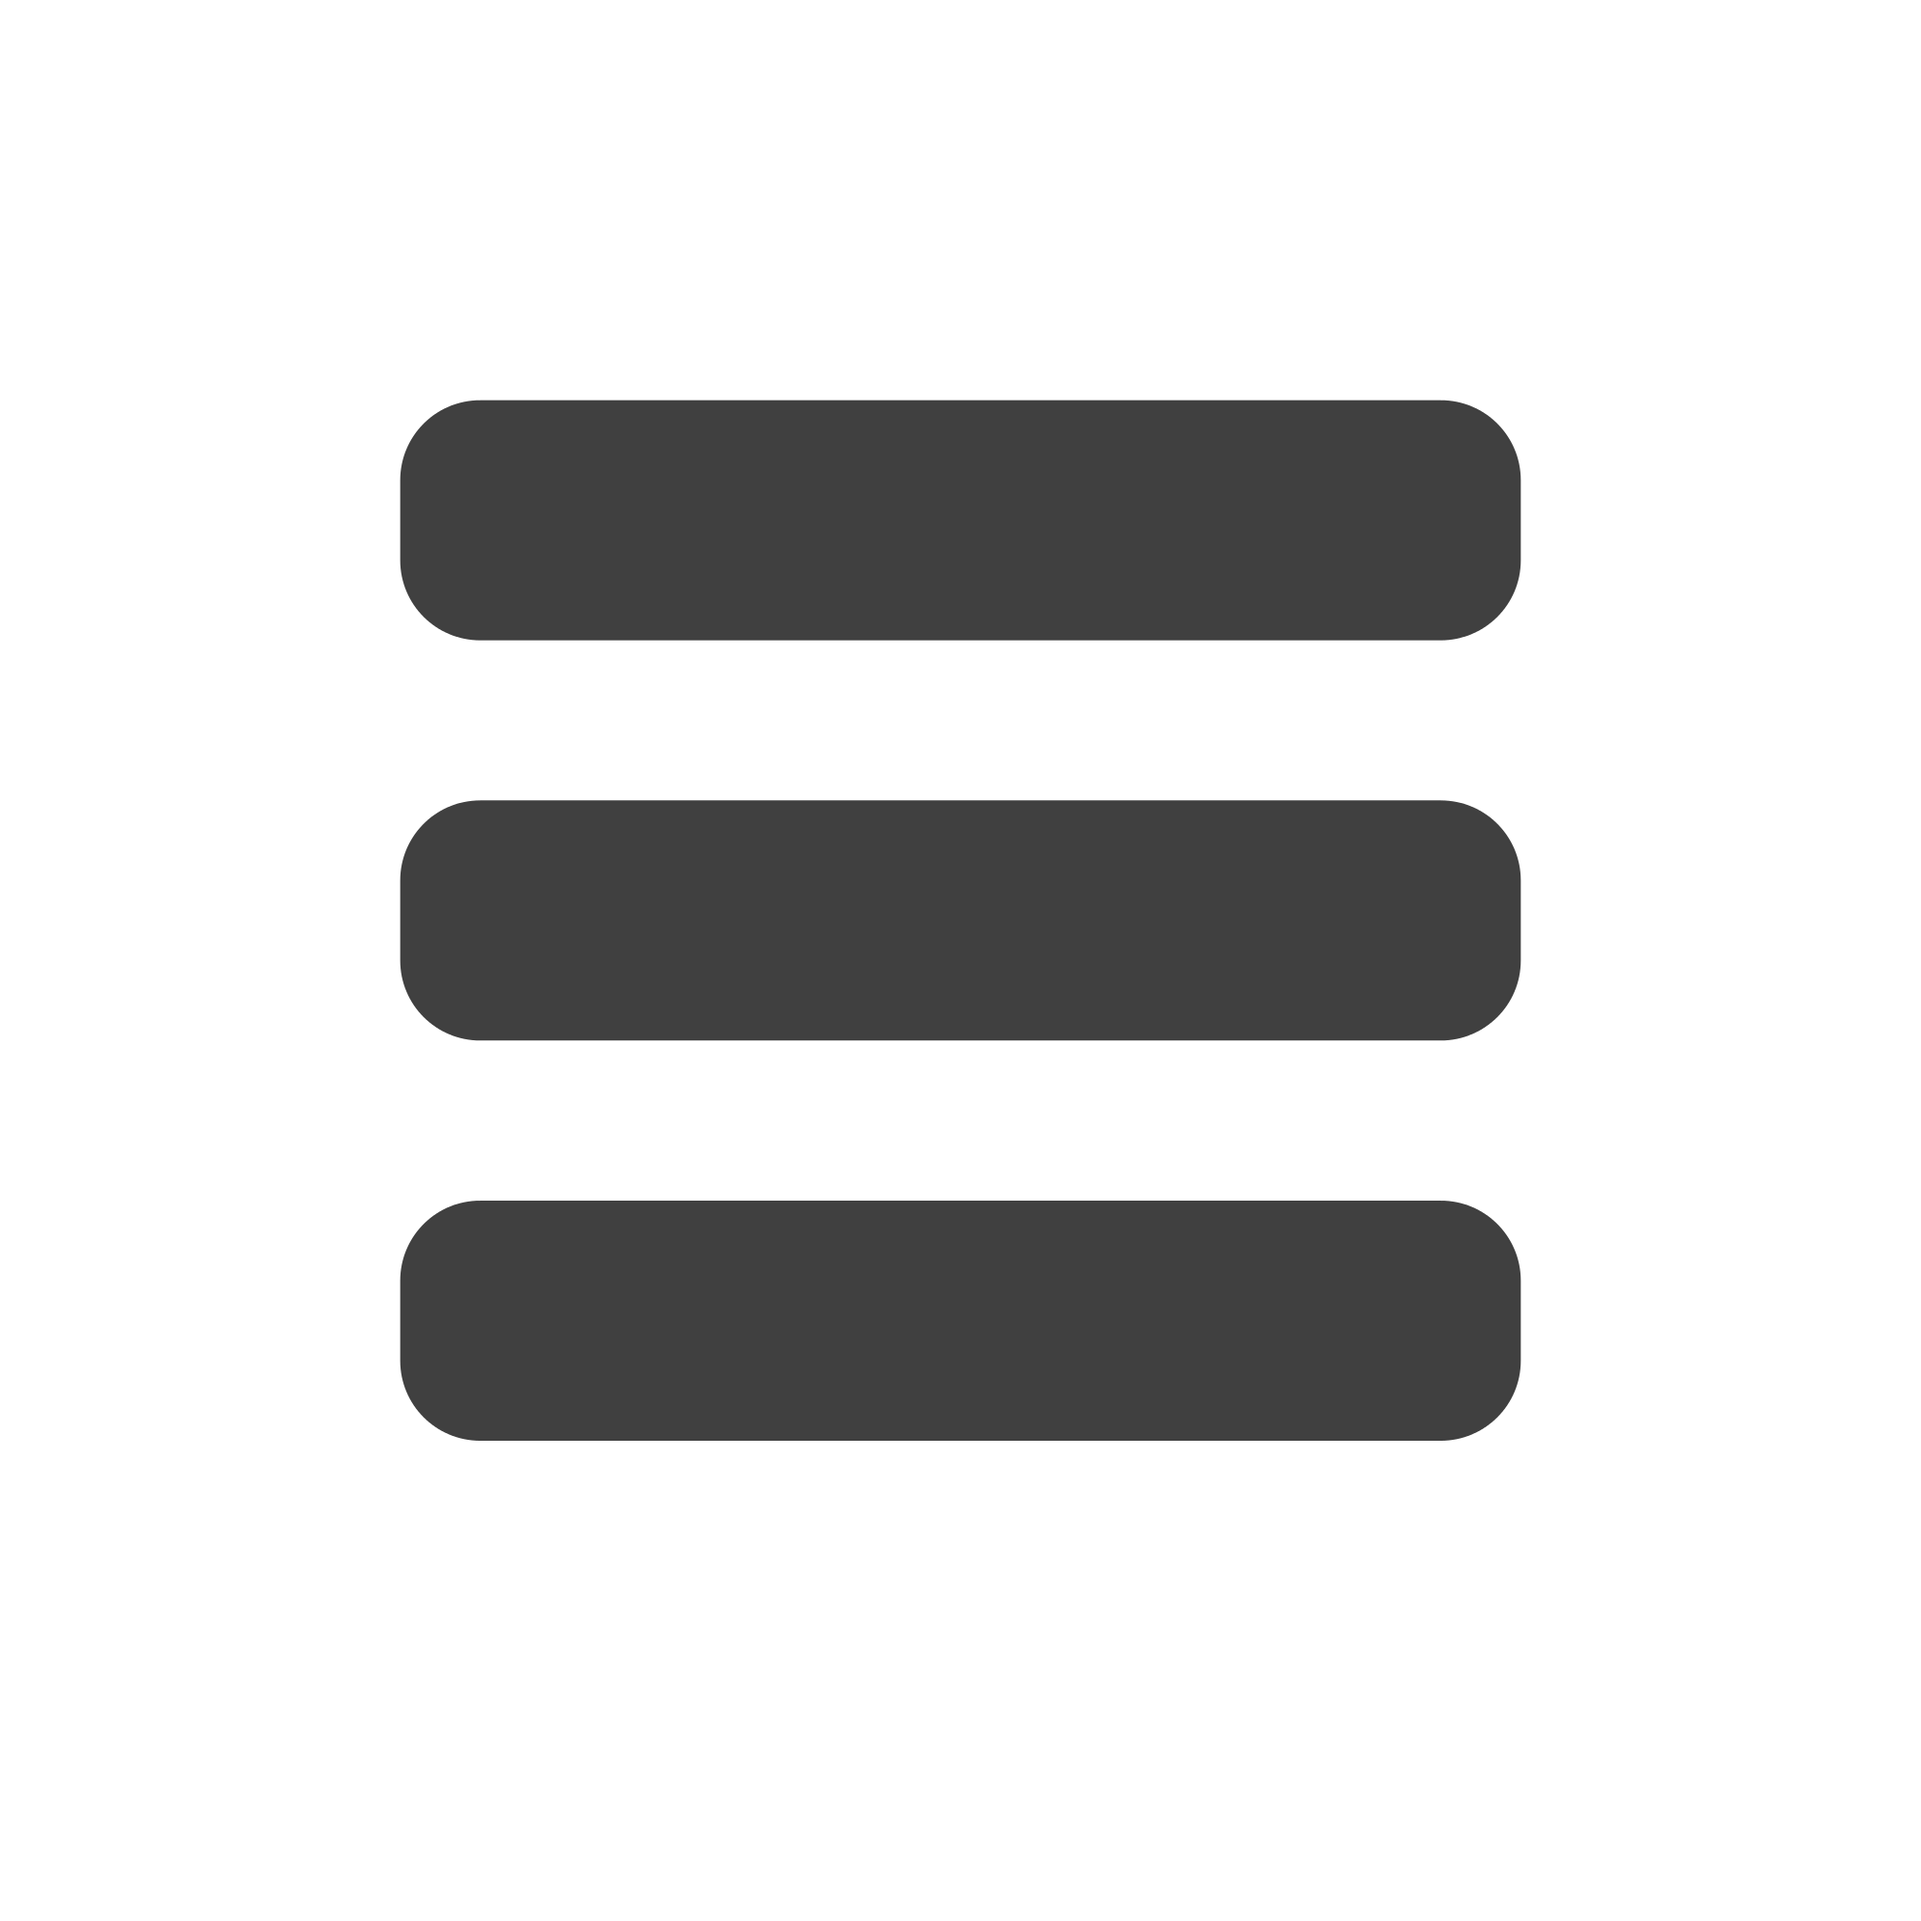
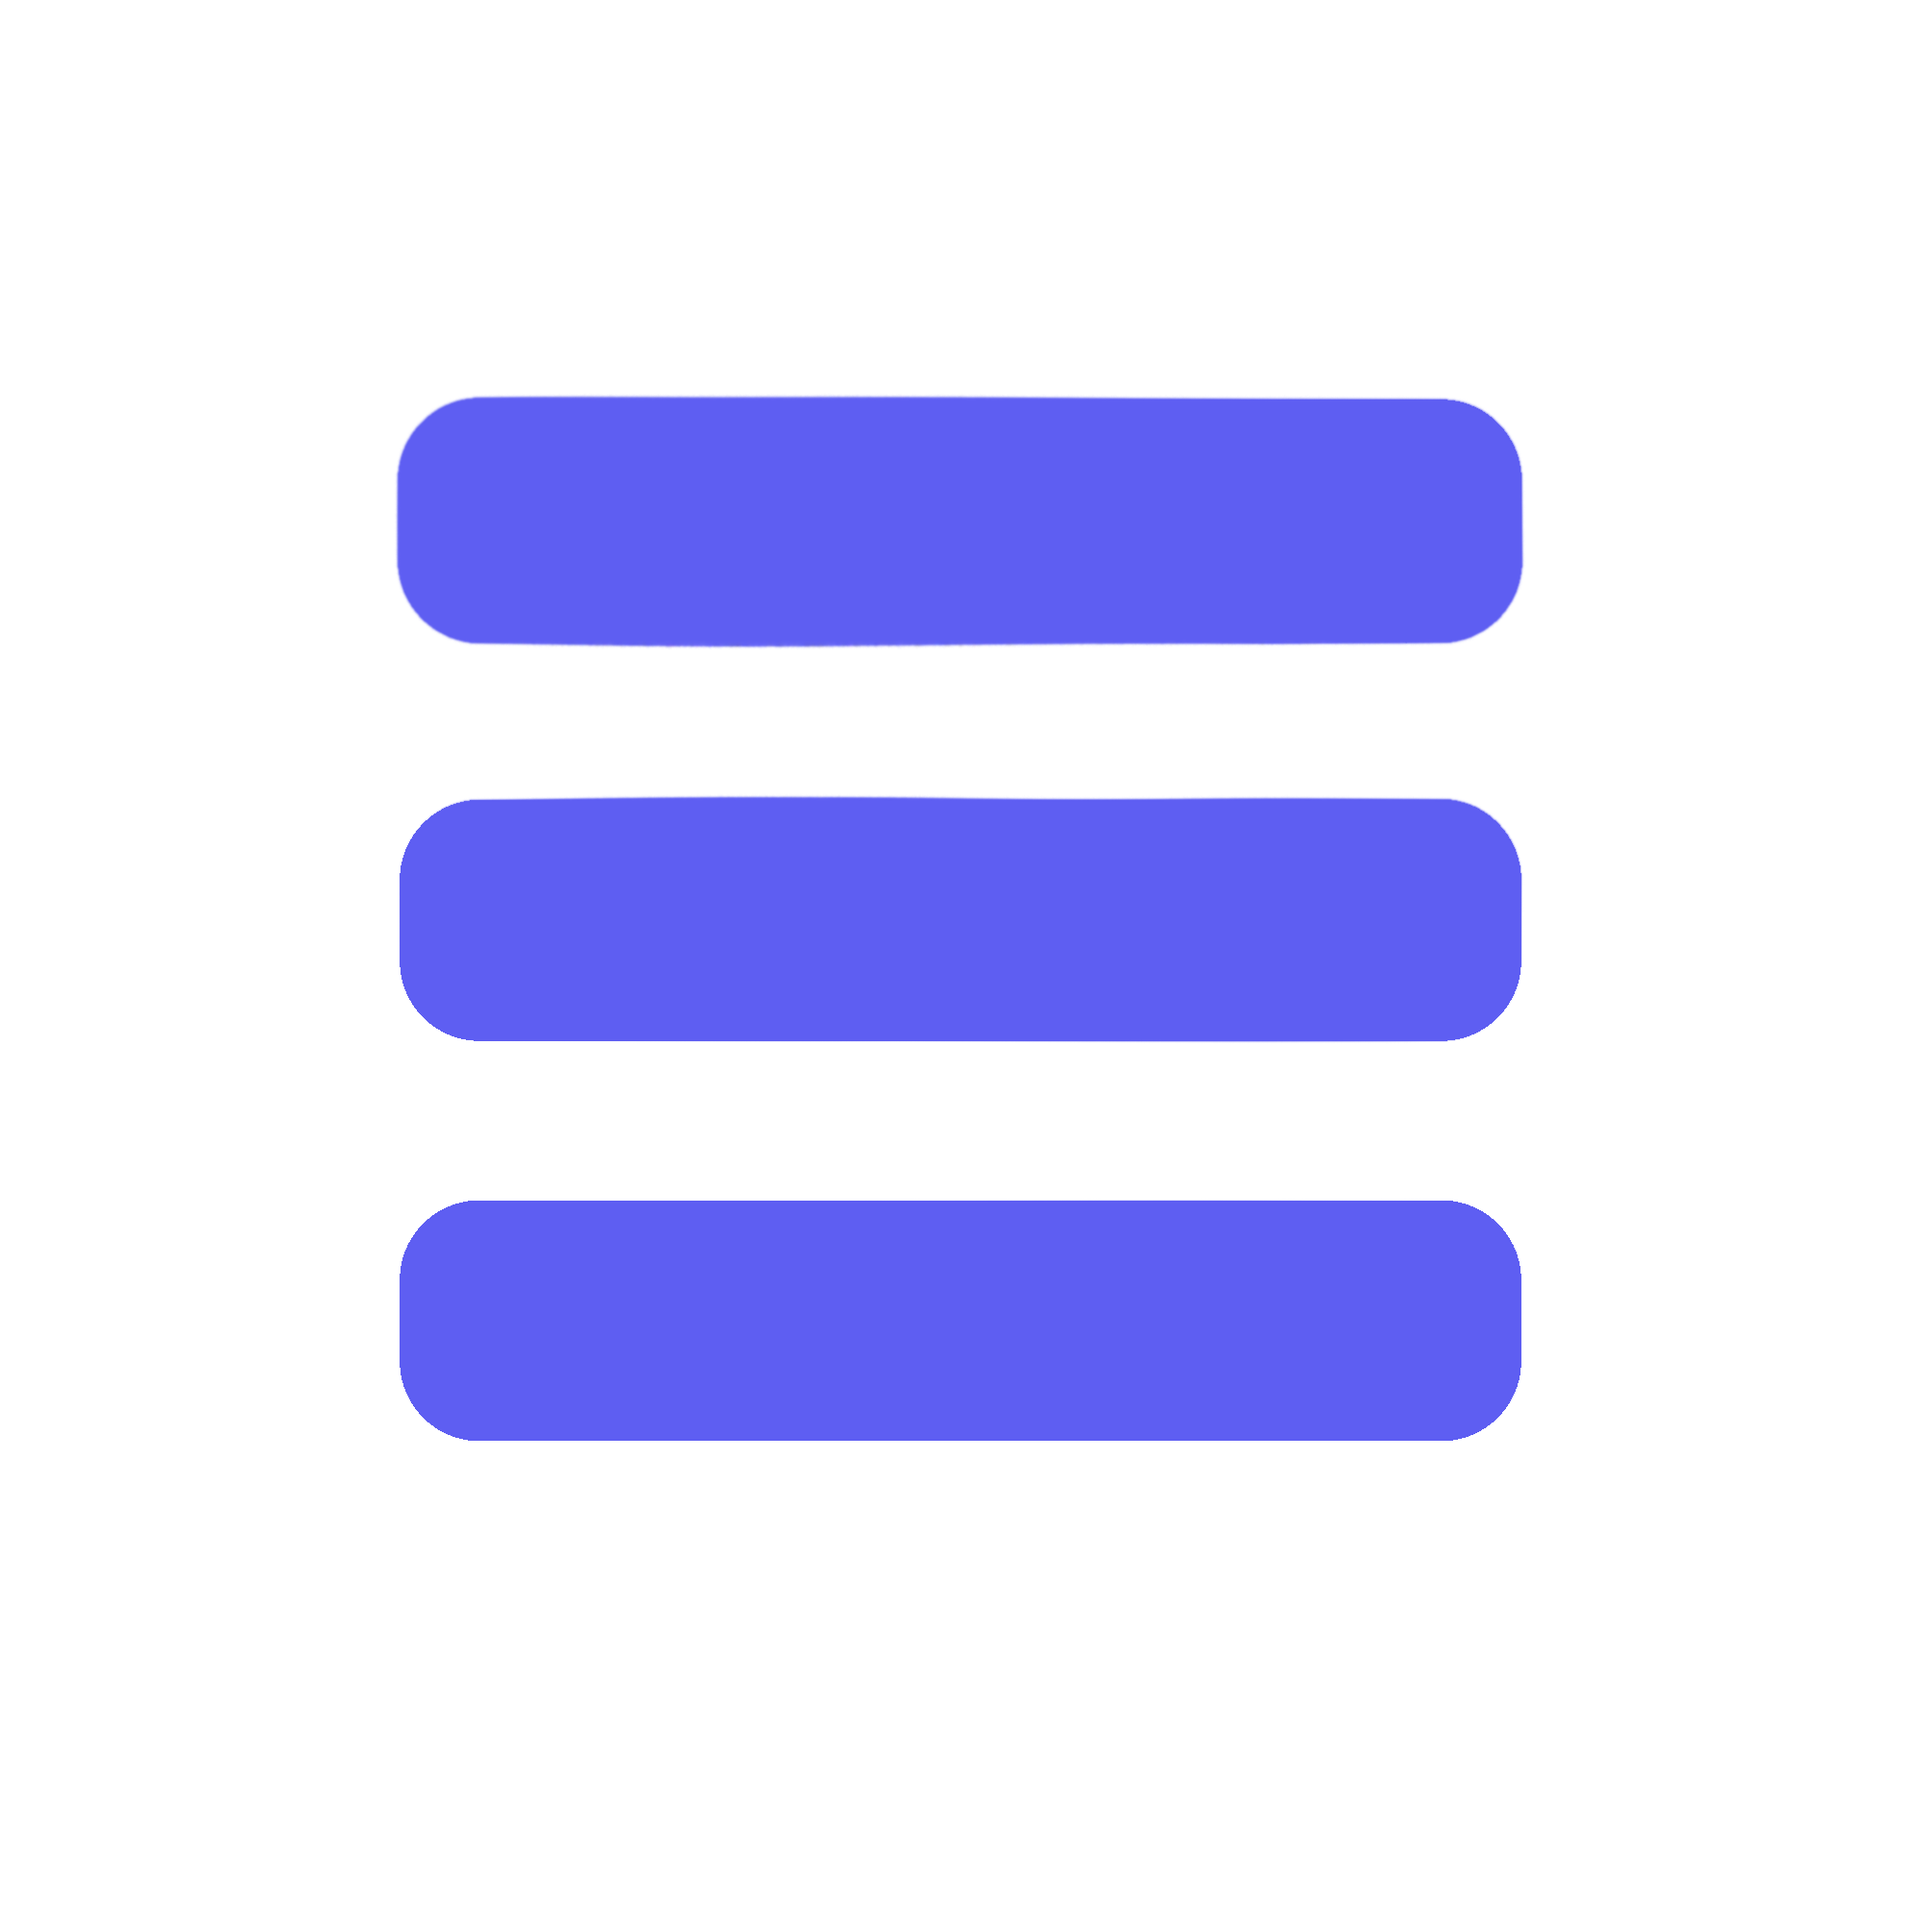
add navigation menu

Changed region(s): [[0.186, 0.186, 0.806, 0.341], [0.186, 0.62, 0.806, 0.775], [0.186, 0.403, 0.806, 0.558]]

diff --git a/shoping/src/main/webapp/assets/css/normalize.css b/shoping/src/main/webapp/assets/css/normalize.css
@@ -1,1 +1,1 @@
-article,aside,details,figcaption,figure,footer,header,hgroup,main,nav,section,summary{display:block;}audio,canvas,video{display:inline-block;}audio:not([controls]){display:none;height:0;}[hidden]{display:none;}html{font-family:sans-serif;-ms-text-size-adjust:100%;-webkit-text-size-adjust:100%;}body{margin:0;}a:focus{outline:thin dotted;}a:active,a:hover{outline:0;}h1{font-size:2em;margin:0.67em 0;}abbr[title]{border-bottom:1px dotted;}b,strong{font-weight:bold;}dfn{font-style:italic;}hr{-moz-box-sizing:content-box;box-sizing:content-box;height:0;}mark{background:#ff0;color:#000;}code,kbd,pre,samp{font-family:monospace,serif;font-size:1em;}pre{white-space:pre-wrap;}q{quotes:"\201C" "\201D" "\2018" "\2019";}small{font-size:80%;}sub,sup{font-size:75%;line-height:0;position:relative;vertical-align:baseline;}sup{top:-0.5em;}sub{bottom:-0.25em;}img{border:0;}svg:not(:root){overflow:hidden;}figure{margin:0;}fieldset{border:1px solid #c0c0c0;margin:0 2px;padding:0.35em 0.625em 0.75em;}legend{border:0;padding:0;}button,input,select,textarea{font-family:inherit;font-size:100%;margin:0;}button,input{line-height:normal;}button,select{text-transform:none;}button,html input[type="button"],input[type="reset"],input[type="submit"]{-webkit-appearance:button;cursor:pointer;}button[disabled],html input[disabled]{cursor:default;}input[type="checkbox"],input[type="radio"]{box-sizing:border-box;padding:0;}input[type="search"]{-webkit-appearance:textfield;-moz-box-sizing:content-box;-webkit-box-sizing:content-box;box-sizing:content-box;}input[type="search"]::-webkit-search-cancel-button,input[type="search"]::-webkit-search-decoration{-webkit-appearance:none;}button::-moz-focus-inner,input::-moz-focus-inner{border:0;padding:0;}textarea{overflow:auto;vertical-align:top;}table{border-collapse:collapse;border-spacing:0;}
+article,aside,details,figcaption,figure,footer,header,hgroup,main,nav,section,summary{display:block;}audio,canvas,video{display:inline-block;}audio:not([controls]){display:none;height:0;}[hidden]{display:none;}html{font-family:sans-serif;-ms-text-size-adjust:100%;-webkit-text-size-adjust:100%;}body{margin:0;}a:focus{outline:thin dotted;}a:active,a:hover{outline:0;}h1{font-size:2em;margin:0.67em 0;}abbr[title]{border-bottom:1px dotted;}b,strong{font-weight:bold;}dfn{font-style:italic;}hr{-moz-box-sizing:content-box;box-sizing:content-box;height:0;}mark{background:#fff;color:#00f;}code,kbd,pre,samp{font-family:monospace,serif;font-size:1em;}pre{white-space:pre-wrap;}q{quotes:"\201C" "\201D" "\2018" "\2019";}small{font-size:80%;}sub,sup{font-size:75%;line-height:0;position:relative;vertical-align:baseline;}sup{top:-0.5em;}sub{bottom:-0.25em;}img{border:0;}svg:not(:root){overflow:hidden;}figure{margin:0;}fieldset{border:1px solid #c0c0c0;margin:0 2px;padding:0.35em 0.625em 0.75em;}legend{border:0;padding:0;}button,input,select,textarea{font-family:inherit;font-size:100%;margin:0;}button,input{line-height:normal;}button,select{text-transform:none;}button,html input[type="button"],input[type="reset"],input[type="submit"]{-webkit-appearance:button;cursor:pointer;}button[disabled],html input[disabled]{cursor:default;}input[type="checkbox"],input[type="radio"]{box-sizing:border-box;padding:0;}input[type="search"]{-webkit-appearance:textfield;-moz-box-sizing:content-box;-webkit-box-sizing:content-box;box-sizing:content-box;}input[type="search"]::-webkit-search-cancel-button,input[type="search"]::-webkit-search-decoration{-webkit-appearance:none;}button::-moz-focus-inner,input::-moz-focus-inner{border:0;padding:0;}textarea{overflow:auto;vertical-align:top;}table{border-collapse:collapse;border-spacing:0;}

diff --git a/shoping/src/main/webapp/assets/css/component.css b/shoping/src/main/webapp/assets/css/component.css
@@ -22,7 +22,7 @@ html, body, .container, .scroller {
 .container {
 	position: relative;
 	overflow: hidden;
-	background: #34495e;
+	background: #ffffff;
 }
 
 .menu-trigger {
@@ -66,7 +66,7 @@ html, body, .container, .scroller {
 	left: 0;
 	width: 100%;
 	height: 100%;
-	background: #336ca6;
+	background: #ffffff;
 	-webkit-transform: translate3d(-100%, 0, 0);
 	-moz-transform: translate3d(-100%, 0, 0);
 	transform: translate3d(-100%, 0, 0);
@@ -87,7 +87,7 @@ html, body, .container, .scroller {
 
 .mp-pusher::after,
 .mp-level::after {
-	background: rgba(0,0,0,0.3);
+	background: #0000ff;
 	-webkit-transition: opacity 0.3s, width 0.1s 0.3s, height 0.1s 0.3s;
 	-moz-transition: opacity 0.3s, width 0.1s 0.3s, height 0.1s 0.3s;
 	transition: opacity 0.3s, width 0.1s 0.3s, height 0.1s 0.3s;
@@ -165,9 +165,10 @@ html, body, .container, .scroller {
 }
 
 .mp-menu h2 {
+	background:#0000ff;
 	margin: 0;
 	padding: 1em;
-	color: rgba(0,0,0,0.4);
+	color: #ffffff;
 	text-shadow: 0 0 1px rgba(0,0,0,0.1);
 	font-weight: 300;
 	font-size: 2em;
@@ -219,10 +220,11 @@ html, body, .container, .scroller {
 }
 
 .mp-menu ul li::before {
+	background:#ffffff;
 	position: absolute;
 	left: 10px;
 	z-index: -1;
-	color: rgba(0,0,0,0.2);
+	color: #0000ff;
 	line-height: 3.5;
 }
 
@@ -247,9 +249,9 @@ html, body, .container, .scroller {
 } /* seems like Chrome 34.0.1847.131 needs the second shadow otherwise the transition breaks */
 
 .mp-back {
-	background: rgba(0,0,0,0.1);
+	background: #ffffff;
 	outline: none;
-	color: #fff;
+	color: #0000ff;
 	text-transform: uppercase;
 	letter-spacing: 1px;
 	font-weight: 700;
@@ -264,12 +266,13 @@ html, body, .container, .scroller {
 }
 
 .mp-back::after {
+	background:#0000ff;
 	font-family: 'linecons';
 	position: absolute;
 	content: "\e037";
 	right: 10px;
 	font-size: 1.3em;
-	color: rgba(0,0,0,0.3);
+	color: #00ff00;
 }
 
 .mp-menu .mp-level.mp-level-overlay > .mp-back,

diff --git a/shoping/src/main/webapp/assets/css/demo.css b/shoping/src/main/webapp/assets/css/demo.css
@@ -11,8 +11,8 @@
 }
 
 body {
-	background: #34495e;
-	color: #fff;
+	background: #fff;
+	color: #0000ff;
 	font-weight: 300;
 	font-family: 'Lato', Calibri, Arial, sans-serif;
 }
@@ -47,8 +47,9 @@ a:hover, a:focus {
 .codrops-header {
 	margin: 0 auto;
 	padding: 2em;
-	background: rgba(0,0,0,0.01);
+	background: #fff;
 	text-align: center;
+	color: #0000ff;
 }
 
 .codrops-header h1 {
@@ -68,8 +69,9 @@ a:hover, a:focus {
 /* To Navigation Style */
 .codrops-top {
 	width: 100%;
-	background: #91cfa1;
-	background: rgba(255, 255, 255, 0.1);
+	background: #fff;
+	color: #0000ff;
+	background: #fff;
 	text-transform: uppercase;
 	font-size: 0.69em;
 	line-height: 2.2;
@@ -84,8 +86,8 @@ a:hover, a:focus {
 }
 
 .codrops-top a:hover {
-	background: rgba(255,255,255,0.95);
-	color: #333;
+	background: #fff;
+	color: #0000ff;
 }
 
 .codrops-top span.right {
@@ -131,8 +133,8 @@ a:hover, a:focus {
 	padding: 1em 1.1em;
 	width: 280px;
 	outline: none;
-	color: #fff;
-	background: #336ca6;
+	color: #0000ff;
+	background: #fff;
 	text-align: center;
 	text-decoration: none;
 	font-weight: 700;
